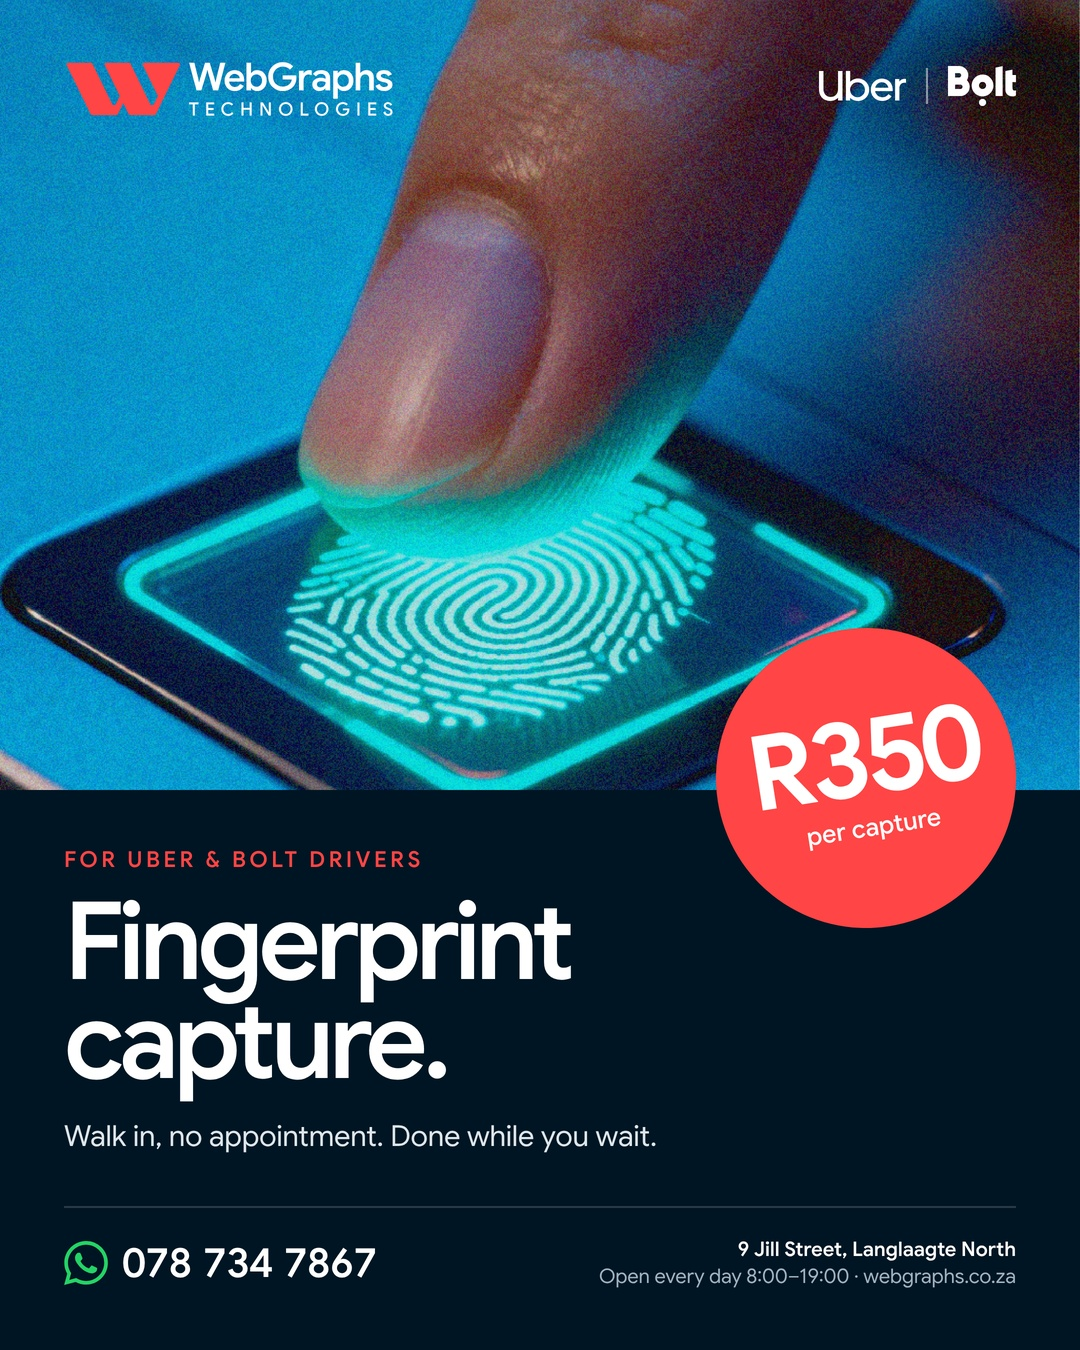
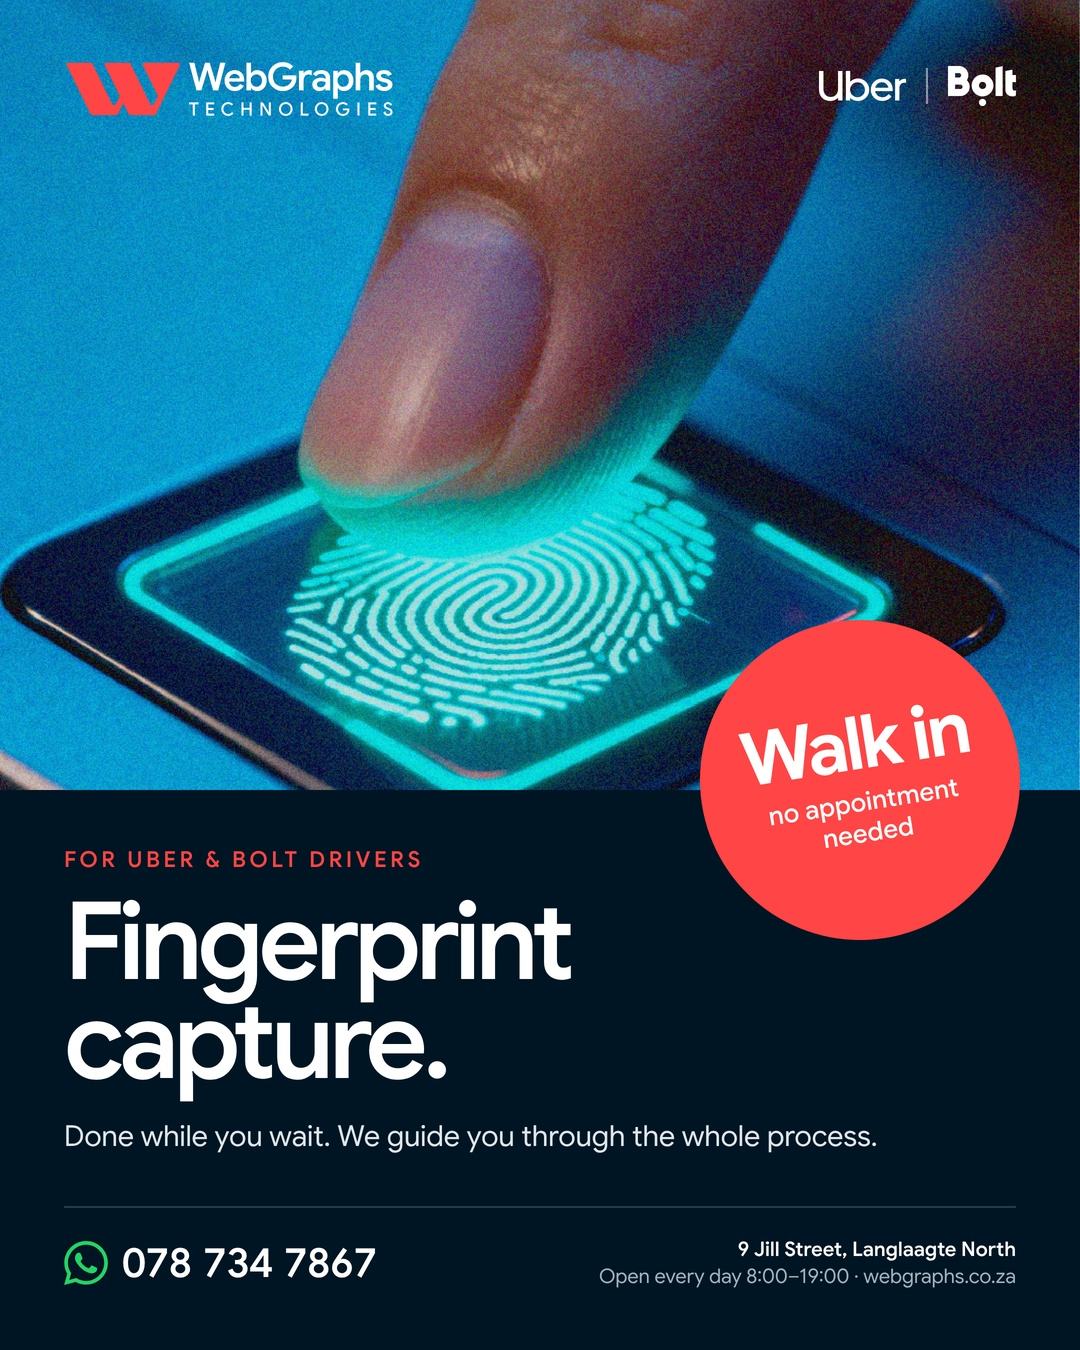
Fingerprint post A: replace the price sticker with a walk-in sticker
Claude-Session: https://claude.ai/code/session_01TeAmRHWiT5K46UN3P8SPy3

Changed region(s): [[0.6417, 0.4667, 0.9472, 0.7156], [0.0611, 0.8089, 0.7944, 0.8711], [0.7639, 0.4356, 0.825, 0.4667]]

diff --git a/tools/social/posts.html b/tools/social/posts.html
@@ -51,12 +51,12 @@ if (D === 'a') page.innerHTML = `
   <div class="abs" style="right:64px;top:66px;display:flex;align-items:center;gap:20px">
     <img src="uber-white.svg" style="height:30px;display:block"><i style="width:2px;height:36px;background:rgba(255,255,255,.5)"></i><img src="bolt-white.svg" style="height:40px;display:block">
   </div>
-  <div class="abs sticker"><b class="num">R350</b><span>per capture</span></div>
+  <div class="abs sticker" style="width:320px;height:320px;left:700px;top:620px"><b style="font-size:74px;letter-spacing:-.045em">Walk in</b><span style="font-size:26px;margin-top:10px;line-height:1.2;text-align:center">no appointment<br>needed</span></div>
 
   <div class="abs" style="left:64px;top:846px;right:64px">
     <div class="eyebrow">FOR UBER &amp; BOLT DRIVERS</div>
     <div class="h1" style="margin-top:20px">Fingerprint<br>capture.</div>
-    <div class="lede" style="margin-top:26px">Walk in, no appointment. Done while you wait.</div>
+    <div class="lede" style="margin-top:26px">Done while you wait. We guide you through the whole process.</div>
   </div>
 
   <div class="abs" style="left:64px;right:64px;top:1206px">

diff --git a/tools/social/README.md b/tools/social/README.md
@@ -6,6 +6,6 @@
 All text and prices come from the website (services.html, driver checker).
 
 ## Poster style (preferred)
-- `posts.html?d=a` — fingerprint post, photo poster with R350 sticker → `WebGraphs-fingerprint-post-A-photo.jpg`
+- `posts.html?d=a` — fingerprint post, photo poster with "Walk in" sticker (no price) → `WebGraphs-fingerprint-post-A-photo.jpg`
 - `posts.html?d=w` — web & app development post, same style, "from R3,500" sticker → `WebGraphs-web-app-post-A.jpg`
 - `posts.html?d=b` — fingerprint post, red type-led alternative → `WebGraphs-fingerprint-post-B-red.jpg`
